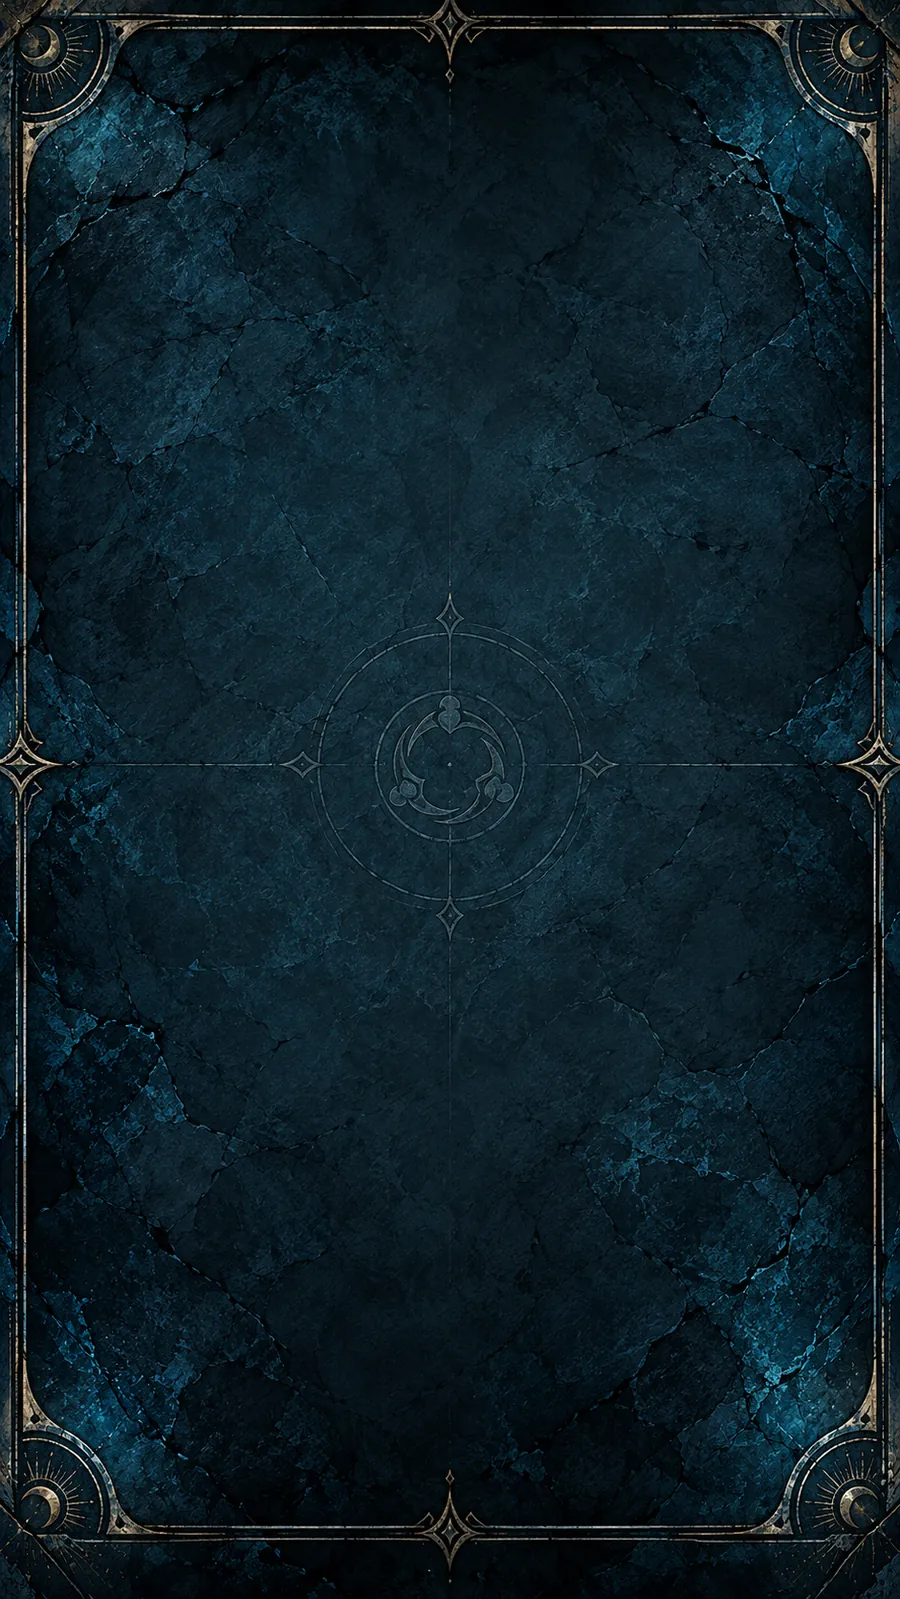
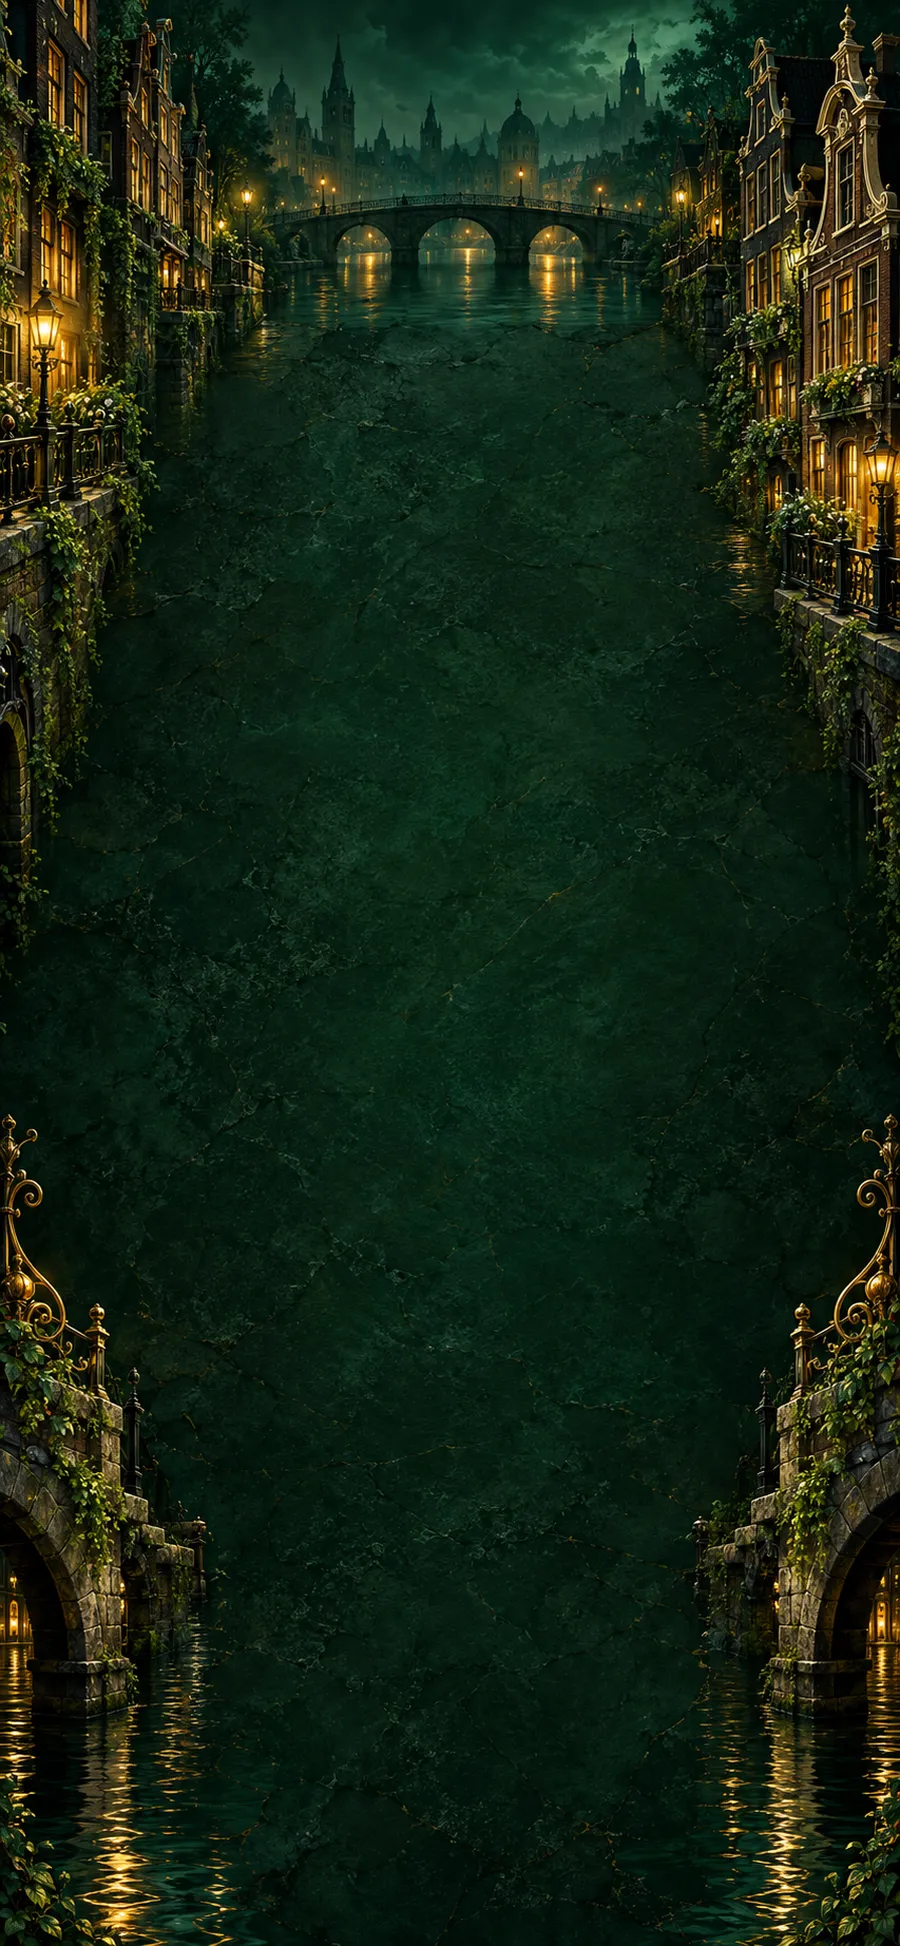
UI: új meccs-háttér (amszterdami csatorna)
Claude-Session: https://claude.ai/code/session_019pbky3KM5NKqxLPJGQF2Ch

diff --git a/site/index.html b/site/index.html
@@ -38,7 +38,7 @@ button:focus-visible,.card:focus-visible{outline:2px solid var(--gold);outline-o
 #app{height:var(--apph,100%);max-width:480px;margin:0 auto;position:relative;box-sizing:border-box;}
 /* Nagy képernyő (tablet fekve, számítógép, 2026-10-13): az oldalsávokban elmosott asztal, a játék oszlopa árnyékkal, finom aranyszegéllyel */
 @media (min-width:560px){
-  body::before{content:'';position:fixed;inset:-40px;z-index:0;pointer-events:none;background:url('art/ui/board.webp?v=f77a1c20') center/cover no-repeat;filter:blur(10px) brightness(.62) saturate(1.15);}
+  body::before{content:'';position:fixed;inset:-40px;z-index:0;pointer-events:none;background:url('art/ui/board.webp?v=9c72d8eb') center/cover no-repeat;filter:blur(10px) brightness(.62) saturate(1.15);}
   body::after{content:'';position:fixed;inset:0;z-index:0;pointer-events:none;background:radial-gradient(60% 80% at 50% 50%,transparent 30%,rgba(0,0,0,.55) 100%);}
   #app{z-index:1;box-shadow:0 0 70px rgba(0,0,0,.75),0 0 0 1px rgba(214,180,106,.22);background:radial-gradient(120% 70% at 50% 45%,#123a44 0%,var(--bg) 70%) var(--bg);}
 }
@@ -633,12 +633,12 @@ h1,h2,h3{font-family:var(--display);font-weight:400;letter-spacing:.01em;text-wr
 .hbar .av{position:relative;width:40px;height:40px;margin:0 5px;box-shadow:none;}
 .hbar .av::after{content:"";position:absolute;inset:-9px;background:url('art/ui/ring.webp?v=70e385cc') center/contain no-repeat;pointer-events:none;}
 .hbar.active .av::after{background-image:url('art/ui/ring-active.webp?v=944b0697');inset:-10px;}
-#scr-game{background:#08161c url('art/ui/board.webp?v=f77a1c20') center/100% 100% no-repeat;}
+#scr-game{background:#08161c url('art/ui/board.webp?v=9c72d8eb') center/100% 100% no-repeat;}
 .locchip{background:rgba(4,12,17,.72);}
 @media (max-height:700px){.hbar .av{width:34px;height:34px}.hbar .av::after{inset:-8px}}
 
 /* ---------- finomítások (olvashatóság) ---------- */
-#scr-game{background:radial-gradient(ellipse 78% 72% at 50% 50%,rgba(2,8,11,.5),rgba(2,8,11,.32) 70%,rgba(2,8,11,0) 100%),url('art/ui/board.webp?v=f77a1c20') center/100% 100% no-repeat,#08161c;}
+#scr-game{background:radial-gradient(ellipse 78% 72% at 50% 50%,rgba(2,8,11,.5),rgba(2,8,11,.32) 70%,rgba(2,8,11,0) 100%),url('art/ui/board.webp?v=9c72d8eb') center/100% 100% no-repeat,#08161c;}
 /* állapotcímkék: keskeny sáv a lap tetején */
 .tags{position:absolute;z-index:4;top:4.4%;left:3.6%;right:3.6%;display:flex;justify-content:center;gap:2px;pointer-events:none;}
 .tags .zz.taunt{background:#b8860b;color:#fff;}
@@ -1711,7 +1711,7 @@ button.rk-row:active{transform:scale(.98);}
     grid-template-rows:auto minmax(0,1fr) auto minmax(0,1fr) auto auto auto;
     grid-template-areas:"left ebar right" "left elane right" "left mid right" "left plane right" "left sel right" "left hand right" "left pbar right";}
   body.in-game #scr-game::before{content:'';grid-column:2;grid-row:1/-1;z-index:-1;margin:0 -8px;border-left:1px solid rgba(214,180,106,.25);border-right:1px solid rgba(214,180,106,.25);
-    background:radial-gradient(ellipse 78% 72% at 50% 50%,rgba(2,8,11,.5),rgba(2,8,11,.32) 70%,rgba(2,8,11,0) 100%),url('art/ui/board.webp?v=f77a1c20') center/100% 100% no-repeat,#08161c;box-shadow:0 0 60px rgba(0,0,0,.7);}
+    background:radial-gradient(ellipse 78% 72% at 50% 50%,rgba(2,8,11,.5),rgba(2,8,11,.32) 70%,rgba(2,8,11,0) 100%),url('art/ui/board.webp?v=9c72d8eb') center/100% 100% no-repeat,#08161c;box-shadow:0 0 60px rgba(0,0,0,.7);}
   body.in-game #eBar{grid-area:ebar;margin:0;width:min(100%,560px);justify-self:center;} body.in-game #pBar{grid-area:pbar;margin:0;width:min(100%,560px);justify-self:center;}
   body.in-game #eLane{grid-area:elane;} body.in-game #pLane{grid-area:plane;}
   body.in-game .mid{grid-area:mid;width:min(100%,620px);justify-self:center;} body.in-game #selbar{grid-area:sel;} body.in-game #hand{grid-area:hand;}
@@ -2422,7 +2422,7 @@ html:has(body.in-game){overscroll-behavior:none;}
 <script src="vendor/firebase-auth-compat.js"></script>
 <script src="vendor/firebase-firestore-compat.js"></script>
 <script src="vendor/firebase-database-compat.js"></script>
-<script>window.APP_VERSION = "2026.10.23-0051"; window.APP_BUILD = "2026.10.23-0053";</script>
+<script>window.APP_VERSION = "2026.10.23-0051"; window.APP_BUILD = "2026.10.23-1438";</script>
 <script>// ===== Best of Us – saját szerver (Firebase) =====
 // A játék eredetileg a Claude-os tárolót használta (window.claude.use('db' | 'user' | 'room')).
 // Ez a fájl ugyanazt a felületet adja Firebase-ből, így a játék kódja szinte változatlan maradhat:

diff --git a/site/sw.js b/site/sw.js
@@ -1,8 +1,8 @@
 // Best of Us – service worker
 // A képek (art/) és a Firebase-könyvtárak a telefonon maradnak (gyors indulás, kevesebb adatforgalom);
 // a játék maga (index.html, version.json) mindig a netről jön, ha van net – így a frissítés azonnal megérkezik.
-const V = '2026.10.23-0053';
-const ASSETS = 'bou-assets-18c0c224ca', PAGES = 'bou-pages-' + V;
+const V = '2026.10.23-1438';
+const ASSETS = 'bou-assets-bd576a107b', PAGES = 'bou-pages-' + V;
 self.addEventListener('install', e => { self.skipWaiting(); });
 self.addEventListener('activate', e => {
   e.waitUntil((async () => {

diff --git a/src/doc.md b/src/doc.md
@@ -463,6 +463,9 @@ Hősképesség-ötletek a táblázatban (még nem zöldek, nincsenek beépítve)
 ## Javítás: „Újabb ranked” → Mégse beragadás (2026-10-16)
 - Meccs után az „Újabb ranked” gomb a lezárt meccs képernyőjén indította a keresést; ha valaki „Mégse”-t nyomott, a lezárt táblán ragadt, és a zászló sem csinált semmit. Mostantól az „Újabb ranked” előbb a Ranked képernyőre visz, a keresés megszakítása lezárt meccsből a menübe visz, és lezárt meccsen a zászló is a menübe visz.
 
+## Új meccs-háttér (2026-10-23, Tomi UI)
+- `art/ui/board.webp` lecserélve (900×1946): éjszakai amszterdami csatorna, híd, lámpák, a közepe sötétzöld márvány (ott van a tábla). Ugyanazt a fájlt használja a meccs-képernyő és a széles nézet elmosott háttere is. A régi: Tomi gépén / git történetben.
+
 ## Bolti ritka variáns: Boros virágcsokorral (2026-10-23, Tomi)
 - `c_boros2` – a Boros (5 energia, 3/5, ritka, Provokáció) változata, új képpel (virágcsokor, naplemente), **50 coin**, 2 példány jár; csak a Boltban, a limitált kínálatban (a következő rotációig, 10-29). Packból nem jön, nem cserélhető.
 - **Gabi, a Beton hős-portré** (`p_gabi_beton`, `passOnly` – boltban és ládában nincs): a 2. ranked szezonban **Ezüst 5**-ön jár (`RK_LATER.r2`, `r2_gabi`, kész a grant). Megkapáskor rögtön ezt viseli Gabi, és felugrik a portré nagyban („🎁 Ranked jutalom (Ezüst 5): …”). Aki már elérte, a következő menübe lépéskor kapja meg. A kép: Gabi a betonba ütött ököllel, éjszakai vasútállomás.
